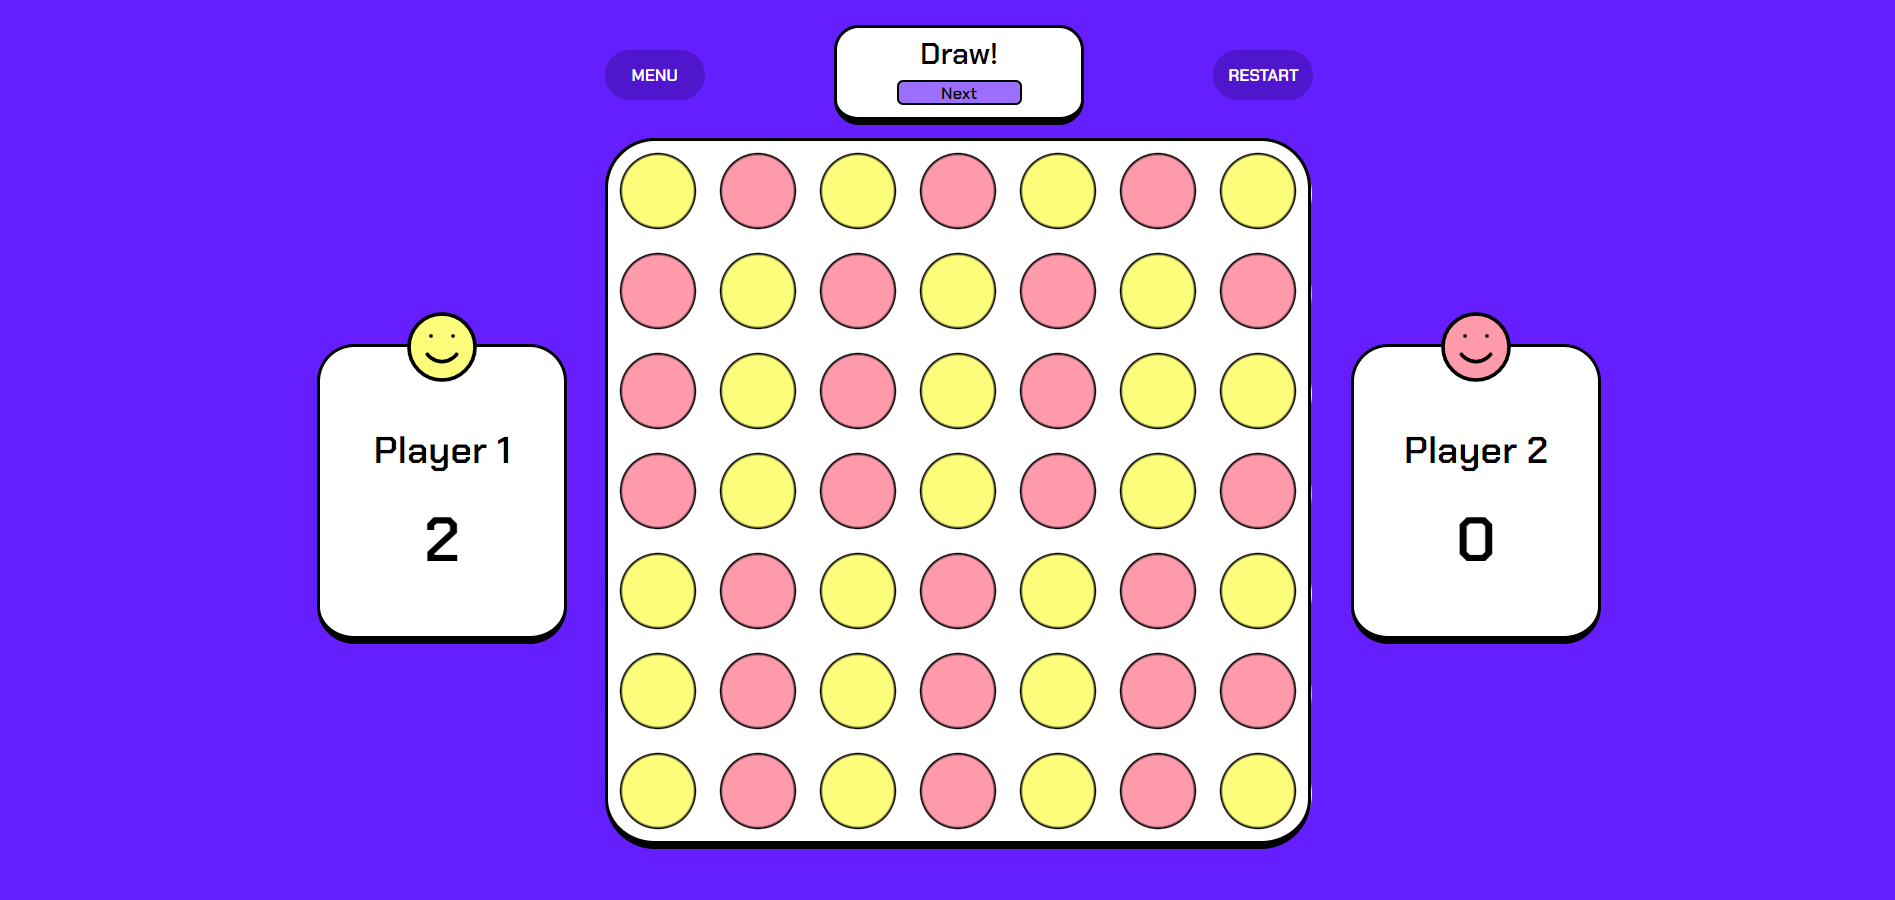
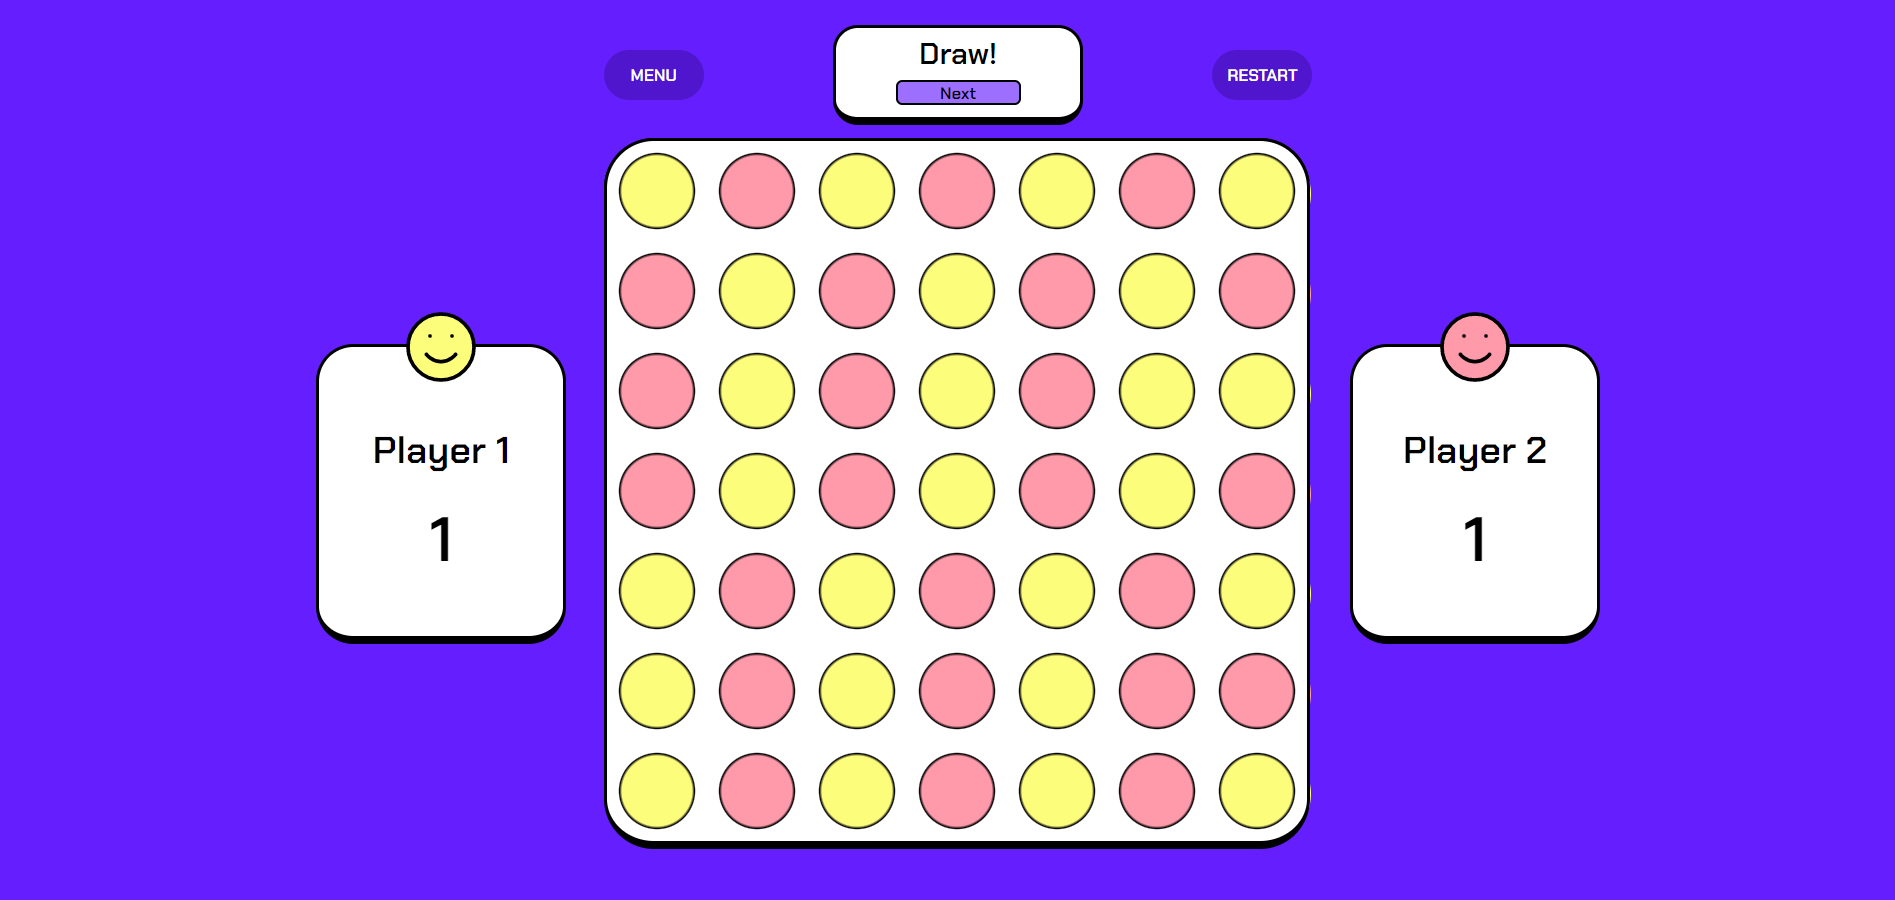
fixed chips size

diff --git a/css/index.css b/css/index.css
@@ -192,7 +192,7 @@
   padding-bottom: 5px;
 }
 * body .field .column .chip {
-  width: 80px;
+  width: 78px;
   height: 80px;
   z-index: -1;
   border-radius: 50%;
@@ -263,7 +263,7 @@
     border-radius: 30px;
   }
   * body .field .column .chip {
-    width: 60px;
+    width: 58px;
     height: 60px;
   }
   * body .winner-panel {
@@ -476,7 +476,7 @@
     border-radius: 20px;
   }
   * body .field .column .chip {
-    width: 40px;
+    width: 38px;
     height: 40px;
   }
 }

diff --git a/scss/_media.scss b/scss/_media.scss
@@ -31,7 +31,7 @@
     
                 .column {
                     .chip {
-                        width: 60px;
+                        width: 58px;
                         height: 60px;
                     }
                 }
@@ -228,7 +228,7 @@
     
                 .column {
                     .chip {
-                        width: 40px;
+                        width: 38px;
                         height: 40px;
                     }
                 }

diff --git a/scss/_style.scss b/scss/_style.scss
@@ -157,7 +157,7 @@
                 padding-bottom: 5px;
 
                 .chip {
-                    width: 80px;
+                    width: 78px;
                     height: 80px;
                     z-index: -1;
                     border-radius: 50%;
